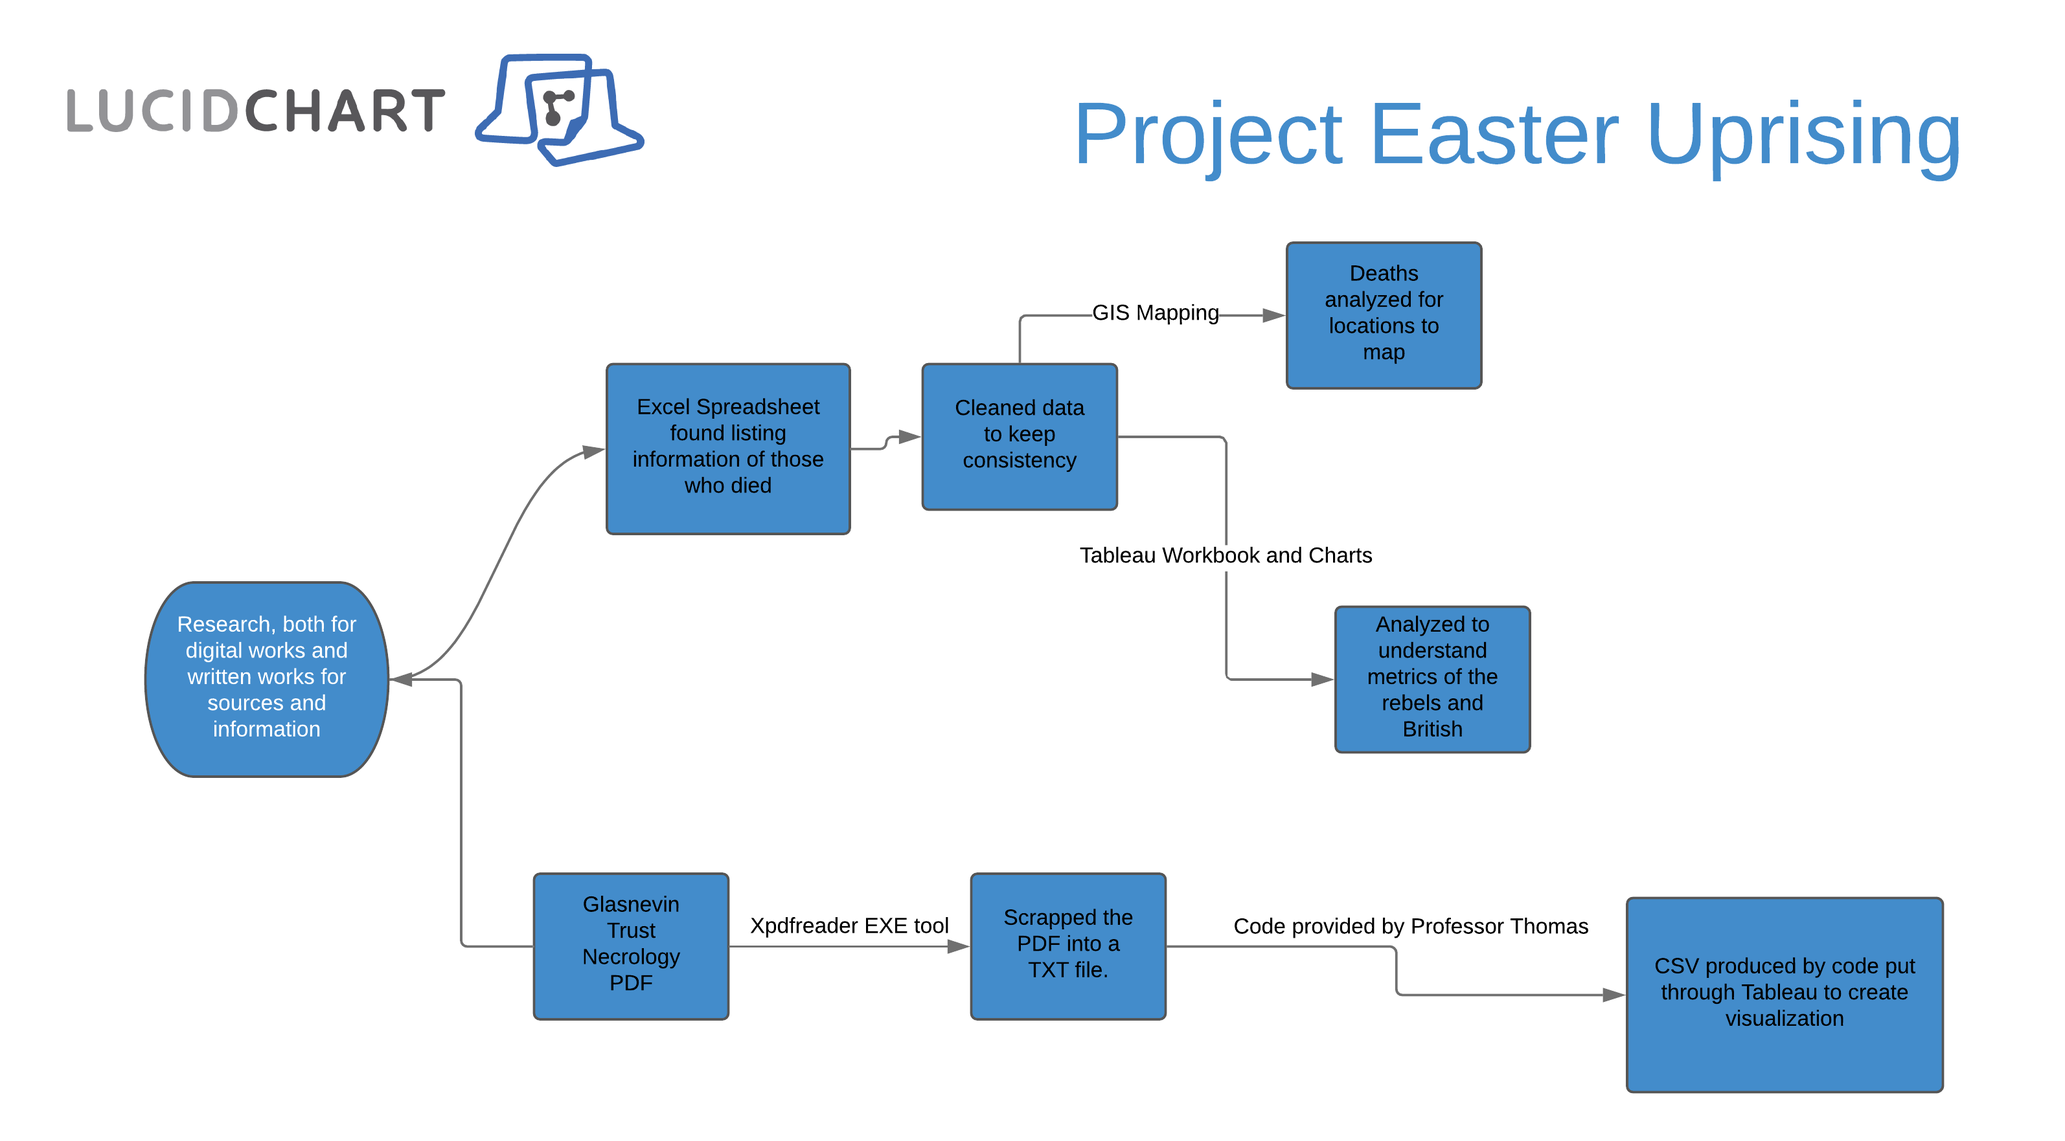
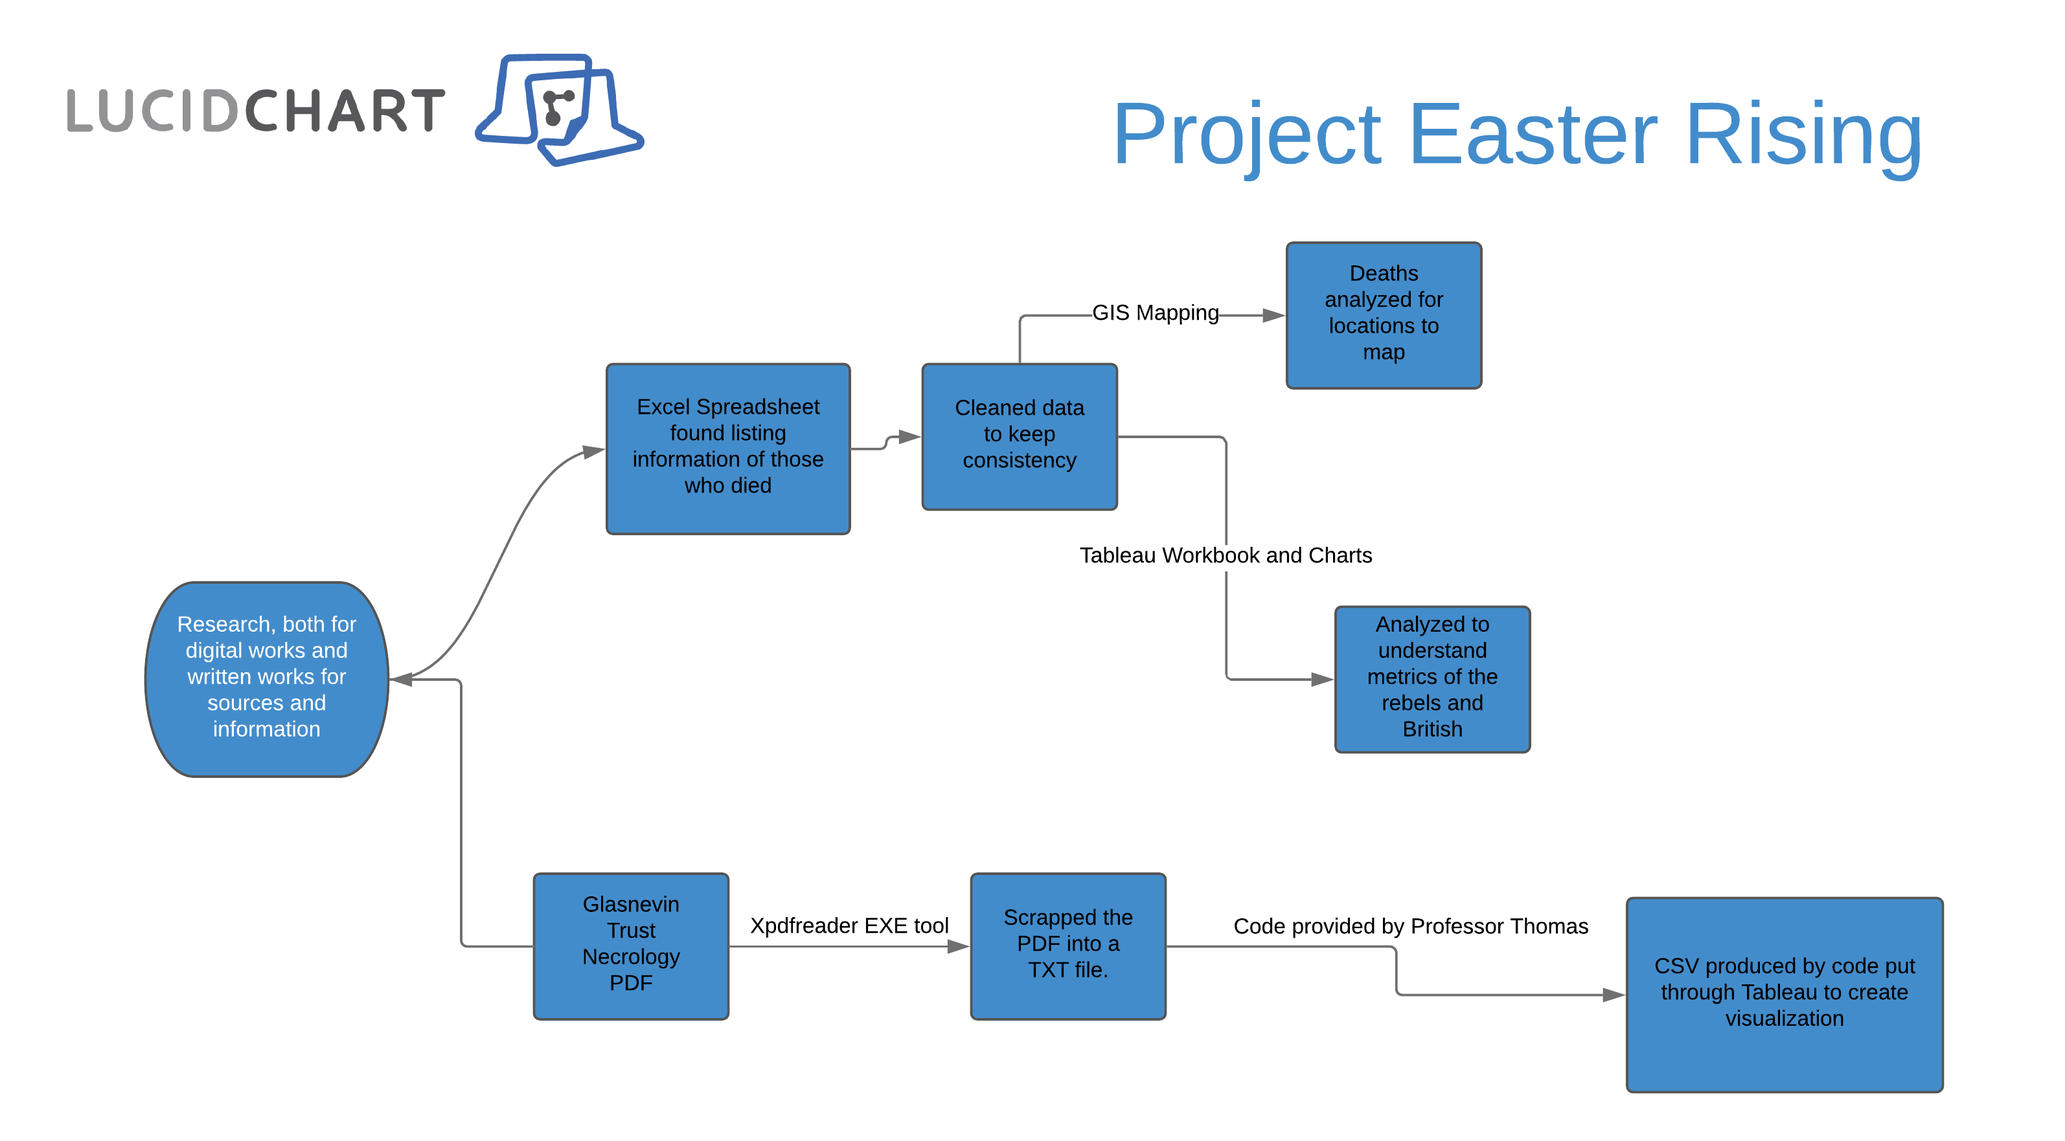
Minor text changes, finished digital scholarship

Changed region(s): [[0.4969, 0.0936, 0.9627, 0.156]]

diff --git a/docs/source_analysis.md b/docs/source_analysis.md
@@ -1,17 +1,13 @@
 # Source Analysis
 Digital Scholarship:
 
-The Easter Rising of 1916 has recently celebrated the 100th anniversary of the failed rebellions attempt to overthrow British rule. The centennial event, celebrated in Ireland, led to many colleges and institutions trying to create digital projects to commemorate the rebellion. There is a myriad of ways in which these projects represent some type of digital scholarship on the rebellion. Some institutions made simple maps and pictures concerning the events surrounding the rebellion while others, collected a massive number of primary sources that have been digitized to be accessed by the public.
-
-
-
-The ArcGIS website gives a tutorial section on how to create different types of maps with data from CSV files. The file provided with this particular tutorial is that of deaths during the Easter Rising Rebellion with about 216 people. The file contains: names, ages, gender, exact coordinates of their death, affiliation, religion, dates of birth and death, and even occupation. The main issue with this source is that the data skews heavily towards the Irish side of the Rebellion. The 216 people on the list provided are almost entirely listed as either civilian or as part of the Irish resistance. This must be noted because it skews how the information will be visualized and leaves many questions left unfulfilled in a truly meaningful manner. When put in conversation with the PDF list from the Glasnevin Trust, it helps understand the affiliations of nearly all who died, but by its lonesome, it is mostly only good for creating maps within the ArcGIS system. This is still the main source for most of the Tableau visualizations regardless because it is the only source found that has information such as age, religion, and career to name a few.
+The ArcGIS website gives a tutorial section on how to create different types of maps with data from CSV files. The file provided with this particular tutorial is that of deaths during the Easter Rising with about 216 people. The file contains: names, ages, gender, exact coordinates of their death, affiliation, religion, dates of birth and death, and even occupation. The main issue with this source is that the data skews heavily towards the Irish side of the Rebellion. The 216 people on the list provided are almost entirely listed as either civilian or as part of the Irish resistance. This must be noted because it skews how the information will be visualized and leaves many questions left unfulfilled in a truly meaningful manner. When put in conversation with the PDF list from the Glasnevin Trust, it helps understand the affiliations of nearly all who died, but by its lonesome, it is mostly only good for creating maps within the ArcGIS system. This is still the main source for most of the Tableau visualizations regardless because it is the only source found that has information such as age, religion, and career to name a few.
 
 *https://learn.arcgis.com/en/projects/tell-the-story-of-irish-public-history/lessons/map-easter-rising-fatalities.htm*
 
 
 
-The Glasnevin Trust conducted a large research effort to gather every name of those who died during the 1916 Easter Rising rebellion. This list is an on-going project that was started for the centennial of the Rebellion. The list itself comprises of 485 names and has a section on the website to add the information of a family member who you believed died during the Rebellion. The stated goal of the website is to get a comprehensive list of everyone who died (including the British soldiers and other British sympathizers). The only pieces of information given by the list are: Name, Initials, Date of Death, and Affiliation. Some of these categories are not filled out because the record does not exist. The source is not complete, just like the list from the ArcGIS website, but it has more names and listed affiliations. The PDF with the list does not give age or sex, which makes the list pretty bare bones when it comes to giving information, but the affiliations are good to know since the ArcGIS list is more heavily focused on the Irish side we can see a larger view of those who died and on which side they were on (if any).
+The Glasnevin Trust conducted a large research effort to gather every name of those who died during the 1916 Easter Rising. This list is an on-going project that was started for the centennial of the Rebellion. The list itself comprises of 485 names and has a section on the website to add the information of a family member who you believed died during the Rebellion. The stated goal of the website is to get a comprehensive list of everyone who died (including the British soldiers and other British sympathizers). The only pieces of information given by the list are: Name, Initials, Date of Death, and Affiliation. Some of these categories are not filled out because the record does not exist. The source is not complete, just like the list from the ArcGIS website, but it has more names and listed affiliations. The PDF with the list does not give age or sex, which makes the list pretty bare bones when it comes to giving information, but the affiliations are good to know since the ArcGIS list is more heavily focused on the Irish side we can see a larger view of those who died and on which side they were on (if any).
 
 *https://www.glasnevintrust.ie/visit-glasnevin/news/1916-list/*
 

diff --git a/docs/problems_and_possibilities.md b/docs/problems_and_possibilities.md
@@ -13,13 +13,13 @@ Finally, think of future attempts to continue this line of research, whether by 
 
 ### Roadblocks:
 - Scraping the Glasnevin PDF
-  - The PDF provided by the Glasnevin Trust, which contains the names of 485 people who died during the Easter Rising Rebellion with the ability to add more as they are given the data, was hard to properly scrap and turn into a CSV/Excel file to run through Tableau. We worked with Professor Thomas to find a good program to turn the PDF file into a workable TXT file and ended up using the program Xpdfreader and the EXE tool provided by the company to scrape pdfs and turn them into just the text of the PDF. At first, this seemed to be good enough to run through a code which Professor Thomas created for us to turn the TXT into a workable CSV, but because the records held within the PDF weren't complete and left blank lines which the xpdfreader EXE would not read properly and combine multiple lines. This led to the original code returning errors and not being able to turn the TXT into CSV. Professor Thomas augmented his code to properly turn the TXT into CSV which could then be used for the creation of the Tableau sheet showing the affiliation of those who died during the Easter Rising Rebellion.
+  - The PDF provided by the Glasnevin Trust, which contains the names of 485 people who died during the Easter Rising with the ability to add more as they are given the data, was hard to properly scrap and turn into a CSV/Excel file to run through Tableau. We worked with Professor Thomas to find a good program to turn the PDF file into a workable TXT file and ended up using the program Xpdfreader and the EXE tool provided by the company to scrape pdfs and turn them into just the text of the PDF. At first, this seemed to be good enough to run through a code which Professor Thomas created for us to turn the TXT into a workable CSV, but because the records held within the PDF weren't complete and left blank lines which the xpdfreader EXE would not read properly and combine multiple lines. This led to the original code returning errors and not being able to turn the TXT into CSV. Professor Thomas augmented his code to properly turn the TXT into CSV which could then be used for the creation of the Tableau sheet showing the affiliation of those who died during the Easter Rising.
 - Getting mapping to work in Tableau
   - After reorganizing the information through Openrefine, the dataset was now ready to use in creating the visualization part of our project. Tableau was used for the first attempt in creating any kind of visualization based on the dataset. When creating the map concerning the deaths of people during the Easter Rising of 1916 Tableau was lacking the proper tools. Even though we were able to upload the data, Tableau did not allow us the mapping tools necessary for the type of visualization we were trying to make. There were multiple attempts to upload Dublin map packs to Tableau to support our project but there were too many problems. After spending hours in Tableau, a more simplistic mapping tool was used in the end to make our maps. (Written by Stephen DeCasien)
 - Transcribing literature for Analysis
   - Insert the paragraph from Lauren later.
 - Changed project idea because of data availability
-  - Originally, this project started as a compare and contrast with the effects and outcomes of the French Revolution, the Russian Revolution, and the Cuban Revolution, but we realized that this type of a project would be far too much work for the span of time given. This led to us boiling the project to exclusively the Cuban Revolution, but without a proper question. After some time for deliberation, Lauren came up with the idea of reworking the project to look at the effects and causes of the Easter Rising Rebellion, as this was a subject she knew had both digital projects already in existence and plenty of new scholarship as the Centennial was in 2016, two years prior to this project. We all agreed this would be the best plan of action as it gave as a defined position to start from and we would have someone, Lauren, who knew the topic well making the analysis portion easier to manage and correct.
+  - Originally, this project started as a compare and contrast with the effects and outcomes of the French Revolution, the Russian Revolution, and the Cuban Revolution, but we realized that this type of a project would be far too much work for the span of time given. This led to us boiling the project to exclusively the Cuban Revolution, but without a proper question. After some time for deliberation, Lauren came up with the idea of reworking the project to look at the effects and causes of the Easter Rising, as this was a subject she knew had both digital projects already in existence and plenty of new scholarship as the Centennial was in 2016, two years prior to this project. We all agreed this would be the best plan of action as it gave as a defined position to start from and we would have someone, Lauren, who knew the topic well making the analysis portion easier to manage and correct.
 
 ### Possibilities:
 Literature Analysis

diff --git a/docs/initial_findings.md b/docs/initial_findings.md
@@ -12,7 +12,7 @@ The tableau visualization above was created using the ArcGIS Easter Rising CSV m
 <div class='tableauPlaceholder' id='viz1525040549634' style='position: relative'><noscript><a href='#'><img alt='Affiliation and Death ' src='https:&#47;&#47;public.tableau.com&#47;static&#47;images&#47;Ea&#47;EasterRisingPartII&#47;Story1&#47;1_rss.png' style='border: none' /></a></noscript><object class='tableauViz'  style='display:none;'><param name='host_url' value='https%3A%2F%2Fpublic.tableau.com%2F' /> <param name='embed_code_version' value='3' /> <param name='site_root' value='' /><param name='name' value='EasterRisingPartII&#47;Story1' /><param name='tabs' value='no' /><param name='toolbar' value='yes' /><param name='static_image' value='https:&#47;&#47;public.tableau.com&#47;static&#47;images&#47;Ea&#47;EasterRisingPartII&#47;Story1&#47;1.png' /> <param name='animate_transition' value='yes' /><param name='display_static_image' value='yes' /><param name='display_spinner' value='yes' /><param name='display_overlay' value='yes' /><param name='display_count' value='yes' /><param name='filter' value='publish=yes' /></object></div>                <script type='text/javascript'>                    var divElement = document.getElementById('viz1525040549634');                    var vizElement = divElement.getElementsByTagName('object')[0];                    vizElement.style.width='1016px';vizElement.style.height='991px';                    var scriptElement = document.createElement('script');                    scriptElement.src = 'https://public.tableau.com/javascripts/api/viz_v1.js';                    vizElement.parentNode.insertBefore(scriptElement, vizElement);                </script>
 
 
-This visualization was created using the code provided by Professor David Thomas (the code is included in the workflow section of this workbook) to properly turn the scraped Glasnevin Trust PDF TXT file into a workable CSV. The first sheet is a better representation of the affiliation and numbers of those who died during the Easter Rising Rebellion. The Glasnevin Trust list was more comprehensive when it came numbers dead and more wide-reaching list of affiliations, though it lacked key data like age, religion, and sex. The next two pages focus on the number of deaths on each day provided by the Glasnevin Trust PDF and the number of deaths each day and the affiliation of those who died. The former shows that the deaths were not exclusively between April 26<sup>th</sup> and April 29<sup>th</sup> as usually depicted. While the vast majority died during those four days of fighting, there were deaths tied to the Rebellion both before and after. The deaths after the days of fighting are likely those executed or who died of wounds, though this is purely speculation as cause of death was not provided. The final page shows that the vast majority of those who died were civilians, followed by the British Soldiers. This is interesting because you would expect the British soldiers to not to have taken so many casualties when going up against a resistance force.
+This visualization was created using the code provided by Professor David Thomas (the code is included in the workflow section of this workbook) to properly turn the scraped Glasnevin Trust PDF TXT file into a workable CSV. The first sheet is a better representation of the affiliation and numbers of those who died during the Easter Risings. The Glasnevin Trust list was more comprehensive when it came numbers dead and more wide-reaching list of affiliations, though it lacked key data like age, religion, and sex. The next two pages focus on the number of deaths on each day provided by the Glasnevin Trust PDF and the number of deaths each day and the affiliation of those who died. The former shows that the deaths were not exclusively between April 26<sup>th</sup> and April 29<sup>th</sup> as usually depicted. While the vast majority died during those four days of fighting, there were deaths tied to the Rebellion both before and after. The deaths after the days of fighting are likely those executed or who died of wounds, though this is purely speculation as cause of death was not provided. The final page shows that the vast majority of those who died were civilians, followed by the British Soldiers. This is interesting because you would expect the British soldiers to not to have taken so many casualties when going up against a resistance force.
 
 
 

diff --git a/docs/background.md b/docs/background.md
@@ -17,3 +17,7 @@ As you discuss different authors, you may site them using (author, page) style p
 ---
 
 ## Digital Background
+
+The Easter Rising of 1916 has recently celebrated the 100th anniversary of the failed rebellions attempt to overthrow British rule. The centennial event, celebrated in Ireland, led to many colleges and institutions trying to create digital projects to commemorate the rebellion. There is a myriad of ways in which these projects represent some type of digital scholarship on the rebellion. Some institutions made simple maps and pictures concerning the events surrounding the rebellion while others, collected a massive number of primary sources that have been digitized to be accessed by the public.
+
+Institutions like the Glasnevin Trust and ArcGIS made lists of those who died with additional information for the sake of either just having a comprehensive list or for the sake of creating a tutorial for how to make maps using their program (ArcGIS). Boston College, the National Library of Ireland, and the Irish times created databases for access to literature and speeches related to the Rebellion. The Irish Times shows the importance of the 1916 Easter Rising both contemporary to the Rebellion and now. The Boston College project for the Easter Rising in collaboration with segments of the Irish government and The Department of Culture, Heritage and the Gaeltacht, contains the most amount of information in one place along with interviews with historians and with readings of the literature of the Rebellion. The National Library of Ireland has collected the works of the biggest names of the Rebellion and have links to PDF scans of their writings.

diff --git a/docs/index.md b/docs/index.md
@@ -12,7 +12,7 @@
 
 ---
 
-This is a visualization project of the Easter Rising Rebellion of 1916. The goal of this project is enhance the understanding of the Easter Rising Rebellion through digital means to see if these means reveal a new dimension to the Rebellion. It is an on-going effort to look at the number of deaths during the Rebellion, their affiliation, age, sex, and religion to understand the origins of the Rebellion and the ramifications of those origins. In the future, we plan to look at the literature of the Gaelic Revival and that of the time shortly before the Rebellion to look at the similarities in speech and goals.
+This is a visualization project of the Easter Rising of 1916. The goal of this project is enhance the understanding of the Easter Rising through digital means to see if these means reveal a new dimension to the Rebellion. It is an on-going effort to look at the number of deaths during the Rebellion, their affiliation, age, sex, and religion to understand the origins of the Rebellion and the ramifications of those origins. In the future, we plan to look at the literature of the Gaelic Revival and that of the time shortly before the Rebellion to look at the similarities in speech and goals.
 
 ---
 

diff --git a/docs/workflow.md b/docs/workflow.md
@@ -11,6 +11,10 @@ Discuss (in detail) the processes of
 
 To make elegant workflow charts, use [LucidChart](https://lucidchart.com)
 
+![Workflow Chart of our project](docs\files\project-easter-rising.png)
+
+*A condensed workflow for the project*
+
 Step by Step Processes:  
 This section is to show how our team used the data we found and how we went about creating the dataset, visualizations, tables, etc.
 Gathering Data: Our group had looked at into scraping websites and archives trying to collect and create datasets that could be used in an excel spreadsheet. The excel spreadsheet could then be used as our base for our research and help direct the vision of our project. Luckily, we were fortunate enough to find a premade excel spreadsheet concerning the people involved in the Easter Rising of 1916. However, this excel spreadsheet was incomplete. The CSV file was still used for the project, but it led to our group finding a PDF with a more complete list of names, but with less in-depth information about the people on the list.

diff --git a/README.md b/README.md
@@ -11,9 +11,8 @@ Authors:
 + [Stephen DeCasien](decasien@mail.usf.edu)
 ---
 
-## Project Template
-
-This is a starter template for final projects. When you have completed your final project, you should replace this message (README.md) with a short 1-2 paragraph description of your project.
+## Project Description 
+This is a visualization project of the Easter Rising Rebellion of 1916. The goal of this project is enhance the understanding of the Easter Rising Rebellion through digital means to see if these means reveal a new dimension to the Rebellion. It is an on-going effort to look at the number of deaths during the Rebellion, their affiliation, age, sex, and religion to understand the origins of the Rebellion and the ramifications of those origins. In the future, we plan to look at the literature of the Gaelic Revival and that of the time shortly before the Rebellion to look at the similarities in speech and goals.
 
 
 
